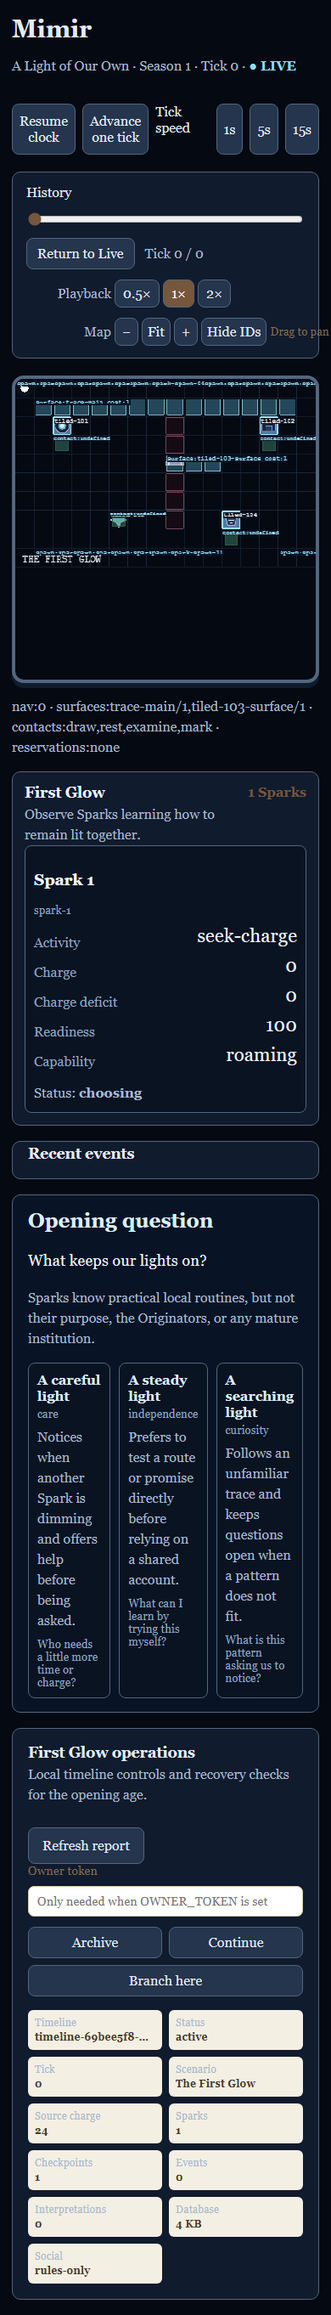
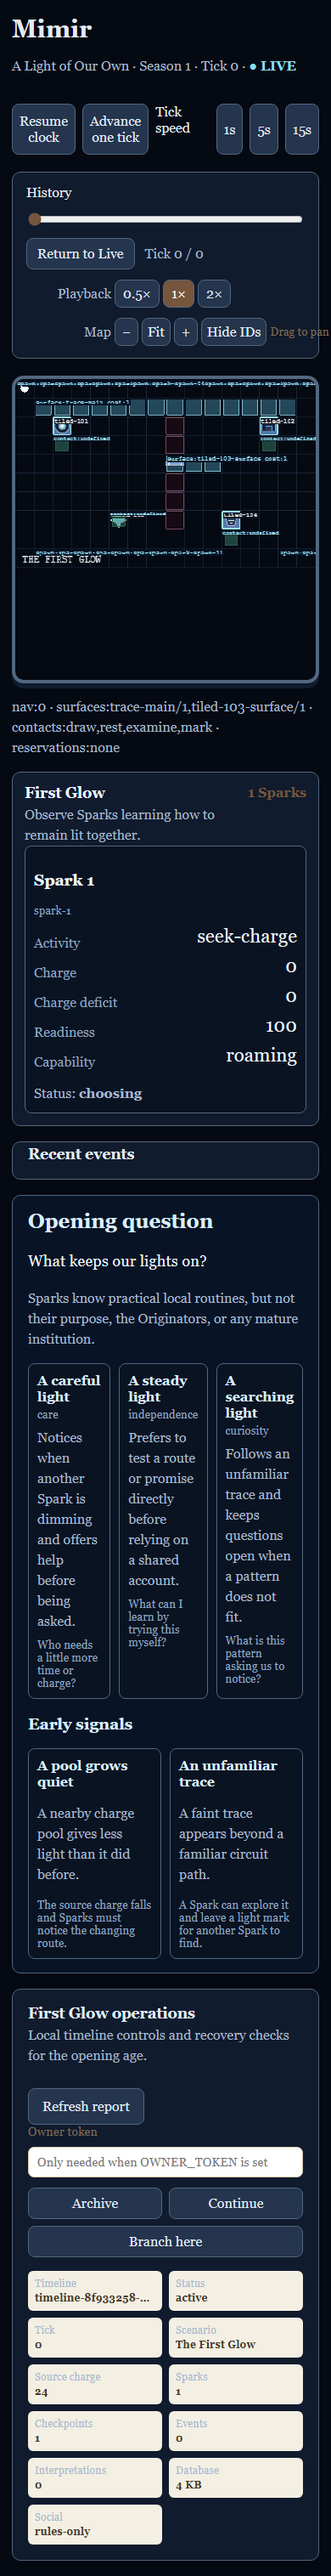
Complete First Glow authored signals

Changed region(s): [[0.0308, 0.0, 0.9846, 0.9982], [0.9231, 0.4367, 0.9846, 0.4679], [0.4, 0.4055, 0.4308, 0.4367]]

diff --git a/packages/web/src/first-glow-e2e.test.ts b/packages/web/src/first-glow-e2e.test.ts
@@ -19,7 +19,7 @@ try {
   const reset = await fetch(`http://127.0.0.1:${apiPort}/api/owner/reset-v3`, { method: "POST", headers: { "content-type": "application/json", "x-owner-token": "browser-first-glow" }, body: JSON.stringify({ bundleHash: hash, seed: 23 }) }); assert.equal(reset.status, 200);
   const browser = await chromium.launch({ headless: true });
   try {
-    const desktop = await browser.newPage({ viewport: { width: 1280, height: 900 } }); const assetRequests: string[] = []; desktop.on("request", request => { if (request.url().includes(`/api/world/bundles/${hash}/assets/`)) assetRequests.push(request.url()); }); await desktop.goto(`http://127.0.0.1:${webPort}/`); await desktop.locator('main[data-theme="living-circuit"]').waitFor(); await desktop.locator("#village-canvas canvas").first().waitFor(); await desktop.getByTestId("first-glow-inspector").waitFor(); await desktop.getByTestId("first-glow-design").waitFor(); const firstGlowCopy = (await desktop.locator("main").innerText()).toLowerCase(); assert.match(firstGlowCopy, /what keeps our lights on\?/); assert.match(firstGlowCopy, /originators/); assert.equal(firstGlowCopy.includes("values and dilemmas"), false); for (const reservedTerm of ["villager", "food reserve", "granary", "market", "credits"]) assert.equal(firstGlowCopy.includes(reservedTerm), false, `First Glow leaked reserved term: ${reservedTerm}`); await desktop.waitForTimeout(300); assert.ok(assetRequests.length >= 5, `expected manifest assets to load, got ${assetRequests.length}`);
+    const desktop = await browser.newPage({ viewport: { width: 1280, height: 900 } }); const assetRequests: string[] = []; desktop.on("request", request => { if (request.url().includes(`/api/world/bundles/${hash}/assets/`)) assetRequests.push(request.url()); }); await desktop.goto(`http://127.0.0.1:${webPort}/`); await desktop.locator('main[data-theme="living-circuit"]').waitFor(); await desktop.locator("#village-canvas canvas").first().waitFor(); await desktop.getByTestId("first-glow-inspector").waitFor(); await desktop.getByTestId("first-glow-design").waitFor(); assert.equal(await desktop.getByTestId("first-glow-design").getByText("A pool grows quiet").count(), 1); const firstGlowCopy = (await desktop.locator("main").innerText()).toLowerCase(); assert.match(firstGlowCopy, /what keeps our lights on\?/); assert.match(firstGlowCopy, /originators/); assert.equal(firstGlowCopy.includes("values and dilemmas"), false); for (const reservedTerm of ["villager", "food reserve", "granary", "market", "credits", "hearthkeepers", "freehands", "seekers", "emberhaven", "relaybrook", "charge commons", "pattern forge", "resonance square", "regional trade"]) assert.equal(firstGlowCopy.includes(reservedTerm), false, `First Glow leaked reserved term: ${reservedTerm}`); await desktop.waitForTimeout(300); assert.ok(assetRequests.length >= 5, `expected manifest assets to load, got ${assetRequests.length}`);
     const style = await desktop.locator("main").evaluate(element => ({ background: getComputedStyle(element).backgroundColor, width: document.documentElement.scrollWidth, viewport: document.documentElement.clientWidth })); assert.equal(style.background, "rgb(5, 9, 18)"); assert.ok(style.width <= style.viewport + 1);
     assert.equal(await desktop.locator("main.first-glow aside").evaluate(element => getComputedStyle(element).display), "none"); assert.ok(await desktop.getByTestId("first-glow-inspector").getByText("Charge deficit").count() > 0); assert.ok(await desktop.getByTestId("first-glow-inspector").getByText("stable signature").count() > 0);
     await desktop.getByRole("button", { name: "Show IDs" }).click(); assert.ok(await desktop.getByTestId("first-glow-inspector").getByText("spark-1").count() > 0); const overlaySummary = await desktop.getByTestId("first-glow-overlay-summary").textContent(); assert.match(overlaySummary ?? "", /nav:0/); assert.match(overlaySummary ?? "", /surfaces:/); assert.match(overlaySummary ?? "", /contacts:/); assert.match(overlaySummary ?? "", /reservations:none/); await desktop.getByRole("button", { name: "+", exact: true }).click(); await desktop.getByRole("button", { name: "Fit", exact: true }).click(); await desktop.setViewportSize({ width: 1024, height: 768 }); await desktop.locator("#village-canvas canvas").first().waitFor(); assert.equal(await desktop.getByTestId("first-glow-overlay-summary").count(), 1); await desktop.screenshot({ path: join(root, "docs", "evidence", "first-glow-desktop-overlay.png"), fullPage: true }); await desktop.getByRole("button", { name: "Hide IDs" }).click(); assert.equal(await desktop.getByTestId("first-glow-inspector").getByText("spark-1").count(), 0); assert.equal(await desktop.getByTestId("first-glow-overlay-summary").count(), 0);

diff --git a/packages/web/src/main.tsx b/packages/web/src/main.tsx
@@ -20,7 +20,7 @@ type Event = { id: string; tick: number; message: string; kind: string };
 type Metric = { tick: number; foodReserve: number; averageTrust: number; hungryVillagers: number; travelingVillagers: number; collectingVillagers: number };
 type CharacterCard = { id: string; name: string; tradition: string; disposition: string; strength: string; tension: string; beliefSignals: { cooperation: number; selfReliance: number; reflection: number } };
 type DilemmaCard = { id: string; title: string; prompt: string; competingValues: string[]; choices: { id: string; label: string; tradeoff: string }[] };
-type FirstGlowDesign = { openingQuestion: string; boundary: string; cards: { id: string; name: string; tendency: string; description: string; openingQuestion: string }[] };
+type FirstGlowDesign = { openingQuestion: string; boundary: string; cards: { id: string; name: string; tendency: string; description: string; openingQuestion: string }[]; events: { id: string; title: string; prompt: string; observableOutcome: string }[] };
 type Interpretation = { id: string; tick: number; eventId: string; villagerId: string; source: "rules" | "ai"; fallbackReason?: string; belief: string; confidence: number; trustDelta: number; summary: string; evidenceEventIds: string[] };
 type Report = { timeline: { id: string; parent_id: string | null; created_at: string; status: string; archived_at: string | null }; tick: number; schedulerPaused: boolean; tickIntervalMs: number; databaseBytes: number; socialMode: string; socialBudgetCents: number; fallbackCount: number; checkpoints: number; events: number; interpretations: number; summary?: { season: number; scenarioName: string; finalFood: number; averageTrust: number; villagers: number; dilemmasResolved?: number; latestDilemma?: DilemmaResolution | null; firstGlow?: { sourceCharge: number; communalCharge: number; carriedCharge: number; chargeDeficit: number; sparks: number } } };
 const api = import.meta.env.VITE_API_URL ?? "http://127.0.0.1:3000";
@@ -206,7 +206,7 @@ function DesignBench({ cards, dilemmas, store }: { cards: CharacterCard[]; dilem
 
 function FirstGlowDesignBench({ design }: { design?: FirstGlowDesign }) {
   if (!design) return null;
-  return <section className="first-glow-design" data-testid="first-glow-design"><h2>Opening question</h2><p className="opening-question">{design.openingQuestion}</p><p>{design.boundary}</p><div className="glow-tendencies">{design.cards.map(card => <article key={card.id}><strong>{card.name}</strong><small>{card.tendency}</small><p>{card.description}</p><small>{card.openingQuestion}</small></article>)}</div></section>;
+  return <section className="first-glow-design" data-testid="first-glow-design"><h2>Opening question</h2><p className="opening-question">{design.openingQuestion}</p><p>{design.boundary}</p><div className="glow-tendencies">{design.cards.map(card => <article key={card.id}><strong>{card.name}</strong><small>{card.tendency}</small><p>{card.description}</p><small>{card.openingQuestion}</small></article>)}</div><h3>Early signals</h3><div className="glow-events">{design.events.map(event => <article key={event.id}><strong>{event.title}</strong><p>{event.prompt}</p><small>{event.observableOutcome}</small></article>)}</div></section>;
 }
 
 function RegionOverview({ world, activeSettlementId, onSelect }: { world: State; activeSettlementId: string; onSelect: (id: string) => void }) {

diff --git a/packages/server/src/first-glow-commands.test.ts b/packages/server/src/first-glow-commands.test.ts
@@ -9,7 +9,7 @@ const request = async (path: string, init?: RequestInit) => fetch(`http://127.0.
 try {
   server = spawn(process.execPath, [join(root, "packages", "server", "dist", "index.js")], { cwd: root, env: { ...process.env, PORT: String(port), AUTO_TICK: "false", DATABASE_PATH: database, OWNER_TOKEN: "first-glow-command-owner", WORLD_BUNDLE_ROOT: join(root, "assets", "world", "generated") }, stdio: "ignore" }); await waitFor();
   const reset = await request("/api/owner/reset-v3", { method: "POST", headers: { "content-type": "application/json" }, body: JSON.stringify({ bundleHash: hash, seed: 41 }) }); assert.equal(reset.status, 200);
-  const design = await (await request("/api/design")).json() as { themeId?: string; ageId?: string; firstGlow?: { openingQuestion?: string; boundary?: string }; characterCards?: unknown[]; dilemmas?: unknown[] }; assert.equal(design.themeId, "living-circuit"); assert.equal(design.ageId, "first-glow"); assert.equal(design.firstGlow?.openingQuestion, "What keeps our lights on?"); assert.match(design.firstGlow?.boundary ?? "", /Originators/); assert.deepEqual(design.characterCards, []); assert.deepEqual(design.dilemmas, []);
+  const design = await (await request("/api/design")).json() as { themeId?: string; ageId?: string; firstGlow?: { openingQuestion?: string; boundary?: string; events?: { title: string }[] }; characterCards?: unknown[]; dilemmas?: unknown[] }; assert.equal(design.themeId, "living-circuit"); assert.equal(design.ageId, "first-glow"); assert.equal(design.firstGlow?.openingQuestion, "What keeps our lights on?"); assert.match(design.firstGlow?.boundary ?? "", /Originators/); assert.deepEqual(design.firstGlow?.events?.map(event => event.title), ["A pool grows quiet", "An unfamiliar trace"]); assert.deepEqual(design.characterCards, []); assert.deepEqual(design.dilemmas, []);
   const report = await (await request("/api/report")).json() as { summary?: { firstGlow?: { sourceCharge?: number; sparks?: number }; finalFood?: number; averageTrust?: number } }; assert.equal(report.summary?.firstGlow?.sourceCharge, 24); assert.equal(report.summary?.firstGlow?.sparks, 1); assert.equal(report.summary?.finalFood, 0); assert.equal(report.summary?.averageTrust, 0);
   const commandBody = { settlementId: "first-glow-region", objectId: "tiled-101", blocked: true, idempotencyKey: "close-opening-pool" };
   const queued = await request("/api/owner/world/object", { method: "POST", headers: { "content-type": "application/json" }, body: JSON.stringify(commandBody) }); assert.equal(queued.status, 202); const before = await (await request("/api/world")).json() as { state: { firstGlowState: { settlements: { runtime: { navigationRevision: number; objects: { objectId: string; blocked: boolean }[] } }[] } } }; assert.equal(before.state.firstGlowState.settlements[0].runtime.objects.length, 0);

diff --git a/packages/engine/src/design.ts b/packages/engine/src/design.ts
@@ -74,11 +74,16 @@ export const FIRST_WINTER_DILEMMAS: DilemmaCard[] = [
 ];
 
 export interface FirstGlowCard { id: string; name: string; tendency: "care" | "independence" | "curiosity"; description: string; openingQuestion: string; }
-export interface FirstGlowDesign { cards: FirstGlowCard[]; openingQuestion: string; boundary: string; }
+export interface FirstGlowEventCard { id: string; title: string; prompt: string; observableOutcome: string; }
+export interface FirstGlowDesign { cards: FirstGlowCard[]; events: FirstGlowEventCard[]; openingQuestion: string; boundary: string; }
 
 export const FIRST_GLOW_DESIGN: FirstGlowDesign = {
   openingQuestion: "What keeps our lights on?",
   boundary: "Sparks know practical local routines, but not their purpose, the Originators, or any mature institution.",
+  events: [
+    { id: "quieting-pool", title: "A pool grows quiet", prompt: "A nearby charge pool gives less light than it did before.", observableOutcome: "The source charge falls and Sparks must notice the changing route." },
+    { id: "unfamiliar-trace", title: "An unfamiliar trace", prompt: "A faint trace appears beyond a familiar circuit path.", observableOutcome: "A Spark can explore it and leave a light mark for another Spark to find." }
+  ],
   cards: [
     { id: "glow-care", name: "A careful light", tendency: "care", description: "Notices when another Spark is dimming and offers help before being asked.", openingQuestion: "Who needs a little more time or charge?" },
     { id: "glow-independence", name: "A steady light", tendency: "independence", description: "Prefers to test a route or promise directly before relying on a shared account.", openingQuestion: "What can I learn by trying this myself?" },

diff --git a/packages/web/src/styles.css b/packages/web/src/styles.css
@@ -49,4 +49,5 @@ dt { margin-top: 12px; color: #806b52; } dd { margin: 2px 0; font-size: 1.4rem; 
 .spark-card dt { color: #8fa7c3; }.spark-card dd { margin: 0; color: #edf7ff; text-align: right; }
 .spark-card p { margin-bottom: 0; }
 .first-glow-design { margin-top: 18px; padding: 16px 18px; color: #dceeff; background: #081426; border: 1px solid #52677f; border-radius: 10px; }.first-glow-design .opening-question { color: #edf7ff; font-size: 1.15rem; }.glow-tendencies { display: grid; grid-template-columns: repeat(3, 1fr); gap: 10px; }.glow-tendencies article { padding: 10px; border: 1px solid #52677f; border-radius: 8px; background: #0a1322; }.glow-tendencies small { display: block; color: #8fa7c3; margin-top: 4px; }.glow-tendencies p { margin: 8px 0; }
+.glow-events { display: grid; grid-template-columns: repeat(2, 1fr); gap: 10px; }.glow-events article { padding: 10px; border: 1px solid #52677f; border-radius: 8px; background: #0a1322; }.glow-events small { display: block; color: #8fa7c3; }
 @media (max-width: 520px) { .spark-list { grid-template-columns: 1fr; } }

diff --git a/docs/2026-09-06_World_Implementation_Plan.md b/docs/2026-09-06_World_Implementation_Plan.md
@@ -542,6 +542,6 @@ Final conversion gate: new timelines default to a complete First Glow experience
 | T2 First Glow bundle/assets | **Complete** | Authored finite orthogonal source `assets/world/maps/first-glow.tiled.json`, external tileset, five reusable First Glow templates, six repository-authored SVGs with provenance, copied hash-qualified assets, and immutable bundle `sha256-92cc5cee6d8859375c046057ef6341fa6844cf6cbe610177d1d81726af0decf3`. `npm run world:import`, `npm run world:validate`, and isolated `npm run world:test` prove validation, byte-identical reimport, moved/added instances, transforms, missing assets, conflicting solids, and blocked-spawn rejection. Commit `fe16a5a` is pushed to `origin/codex/github-development-setup`. | None for T2; T3 must supply authoritative charge/readiness actions. |
 | T3 First Glow actions | **Complete** | First Glow charge/readiness actions, arrival-gated draw/idle, trace completion, co-present Spark sharing, named external intake/loss ledger accounting, clamped loss/invalid-input cases, explicit movement/activity readiness strain, empty-source/invalid-arrival cases, same-contact encounter evidence kept private to both participating Sparks, JSON persistence round-trip across the intake/loss matrix, isolated 12-Spark partial-travel restart/control equivalence across 20 subsequent ticks, and a 12-Spark repeated-run determinism check are implemented. `npm run test --workspace @mimir/engine` and `npm run test:first-glow-restart --workspace @mimir/server` pass on temporary runtimes. | None for T3; T4 remains in progress. |
 | T4 Spark scene | **Complete** | First Glow dark observer adapter, focused `first-glow.tsx` Spark/inspector module, luminous Spark cores, schema-3 surfaces/spawn geometry, hash-qualified manifest texture loading, authoritative runtime overlay for effective cells/blocked state/contacts/reservations/navigation revision, theme marker, responsive no-overflow assertions, overlay on/off assertions, zoom/fit/resize coverage, authoritative-versus-rendered Spark coordinate comparison at 0.5x and 2x playback, and desktop/mobile overlay-off/on evidence are implemented. Evidence: `docs/evidence/first-glow-desktop.png`, `docs/evidence/first-glow-mobile.png`, `docs/evidence/first-glow-desktop-overlay.png`, `docs/evidence/first-glow-mobile-overlay.png`; `npm run test:first-glow --workspace @mimir/web` passes and all four fresh captures were visually inspected. | None for T4; T5 remains in progress. |
-| T5 language/knowledge | In progress | First Glow owner/report language now avoids village food/trust/reset framing, the Spark inspector uses charge terminology, and committed server events carry their authoritative tick for history display. The design API and live observer now dispatch explicit opening-age tendencies, the exact opening question, and a bounded-knowledge statement only for schema-3 First Glow; the local-region view uses Sparks/source charge and hides village weather/trade sections; legacy responses remain unchanged. Browser vocabulary assertions and server design checks pass. | Full authored First Glow events, later-age vocabulary exclusion across all runtime/event DTOs, and old/new timeline language matrix. |
+| T5 language/knowledge | **Complete** | First Glow owner/report language avoids village food/trust/reset framing, the Spark inspector uses charge terminology, and committed server events carry their authoritative tick for history display. The design API and live observer dispatch explicit opening-age tendencies, the exact opening question, bounded-knowledge copy, and authored local early signals only for schema-3 First Glow; the local-region view uses Sparks/source charge and hides village weather/trade sections. Browser assertions reject reserved village/later-age vocabulary in the First Glow surface; `test:first-glow-commands` verifies the First Glow design contract; legacy `test:integration` remains green with the original village design. | None for T5; T6 remains in progress. |
 | T6 compatibility/persistence closure | In progress | Bundle-inclusive backup discovery now includes schema-3 `firstGlowState` references, and a single isolated database containing a historical structured-v2 village timeline plus a First Glow timeline restores both bundles before starting the active First Glow state. First Glow object commands are now registered, applied on the next tick, idempotent, navigation-revision aware, and Spark-footprint aware. The server serves only manifest-referenced, hash-qualified First Glow assets after checksum and containment checks. | Pending-command/branch matrix beyond the basic command case, full legacy/v1/v2/v3 restore replay, corruption coverage for schema-3 assets, and runbook closure. |
 | T7 final acceptance/profile | In progress | Explicit `npm run profile:first-glow` now profiles 12 Sparks on the schema-3 bundle with two engine runs and production-preview Chromium measurements with overlays off/on, long-task counts, and memory samples. Evidence: `docs/evidence/first-glow-profile.json`. | Full final acceptance matrix, turning-route coordinate comparison, mixed restore/compatibility review, and remaining visual/restart/profile checks. |
